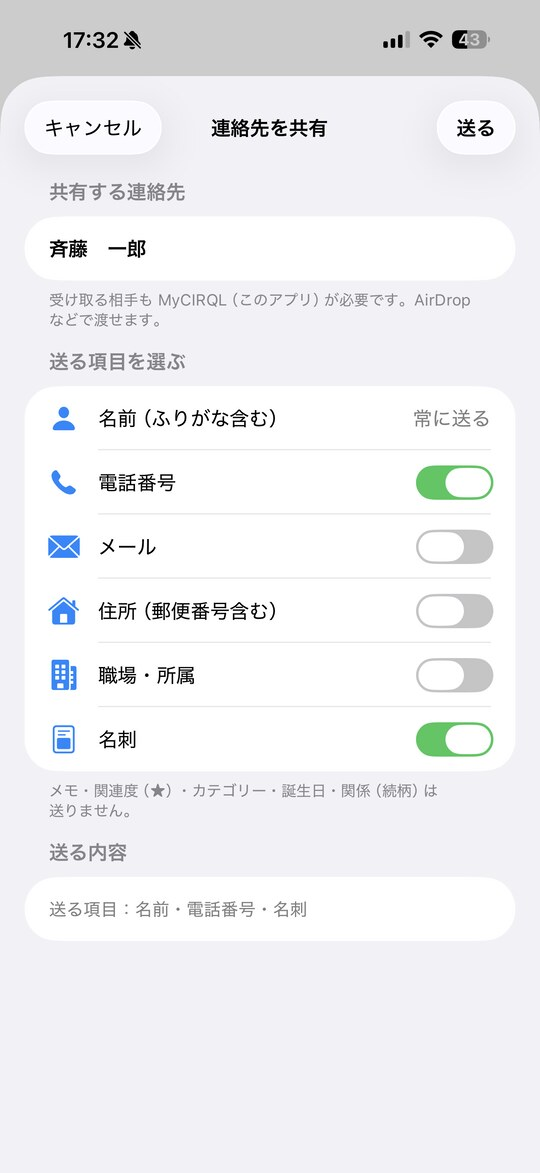
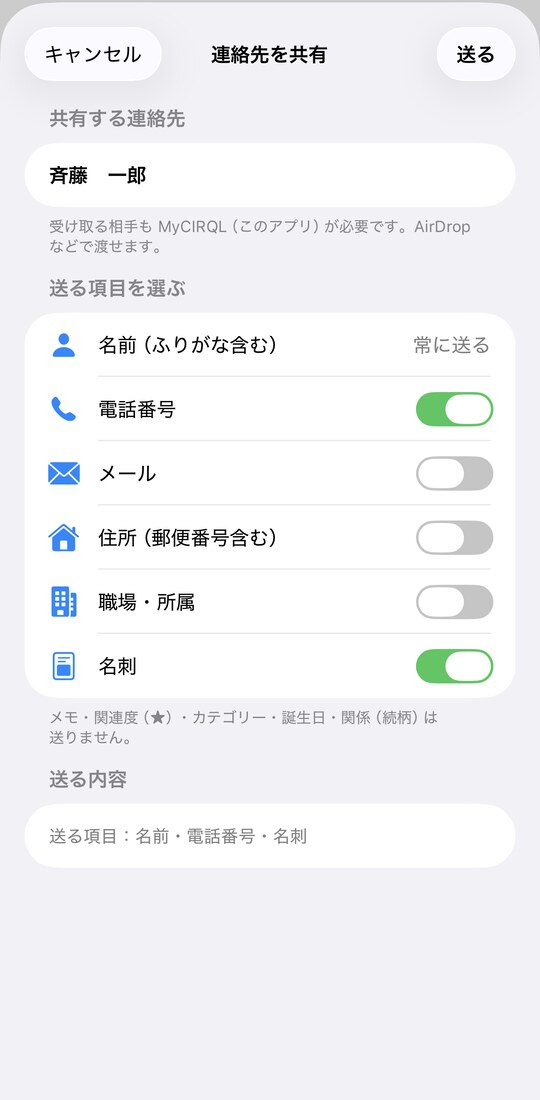
iPhone画面写真からステータスバーを除去し、表示を少し小さく
- 画面上部の時刻・電池・「◀ TestFlight」が写っていたので切り落とした
  （宣伝サイトにテスト版の表示が出ているのは不適切）
- 縦横比 1:2.17 → 1:2.04 になり、細長さがやわらいだ
- 端末枠の表示幅を 300px→262px、ギャラリーを 246px→214px に縮小

diff --git a/index.html b/index.html
@@ -77,9 +77,9 @@
   .hero .note{font-size:17px;color:var(--sub);margin-bottom:28px}
   .hero .cta{display:flex;gap:14px;flex-wrap:wrap;align-items:center}
   .hero .price{font-size:16px;color:var(--sub)}
-  .phone{border:9px solid var(--deep);border-radius:38px;overflow:hidden;box-shadow:var(--shadow);
-         background:var(--deep);max-width:300px;margin:0 auto}
-  .phone img{border-radius:28px}
+  .phone{border:9px solid var(--deep);border-radius:36px;overflow:hidden;box-shadow:var(--shadow);
+         background:var(--deep);max-width:262px;margin:0 auto}
+  .phone img{border-radius:27px}
 
   /* セクション */
   section{padding:56px 0}
@@ -99,8 +99,8 @@
          scroll-snap-type:x mandatory;-webkit-overflow-scrolling:touch}
   .shots::-webkit-scrollbar{height:8px}
   .shots::-webkit-scrollbar-thumb{background:var(--line);border-radius:99px}
-  .shot{flex:0 0 246px;scroll-snap-align:center}
-  .shot .phone{max-width:246px;border-width:8px;border-radius:32px}
+  .shot{flex:0 0 214px;scroll-snap-align:center}
+  .shot .phone{max-width:214px;border-width:8px;border-radius:30px}
   .shot p{text-align:center;font-size:16px;color:var(--sub);margin-top:12px;line-height:1.6}
 
   /* Mac 版 */
@@ -206,7 +206,7 @@
       </div>
     </div>
     <div class="phone">
-      <img src="img/ip_1_hub.jpg" alt="相関図の画面。中心の人物から家族・親戚・友人へ線が伸びている" width="540" height="1173">
+      <img src="img/ip_1_hub.jpg" alt="相関図の画面。中心の人物から家族・親戚・友人へ線が伸びている" width="540" height="1100">
     </div>
   </div>
 </header>
@@ -257,23 +257,23 @@
   <p class="sub">横にスクロールしてご覧ください。</p>
   <div class="shots">
     <div class="shot">
-      <div class="phone"><img src="img/ip_1_hub.jpg" alt="相関図（ハブ）の画面" width="540" height="1173" loading="lazy"></div>
+      <div class="phone"><img src="img/ip_1_hub.jpg" alt="相関図（ハブ）の画面" width="540" height="1100" loading="lazy"></div>
       <p>ハブ<br>その人を中心に関係が広がる</p>
     </div>
     <div class="shot">
-      <div class="phone"><img src="img/ip_2_tree.jpg" alt="家系図の画面" width="540" height="1173" loading="lazy"></div>
+      <div class="phone"><img src="img/ip_2_tree.jpg" alt="家系図の画面" width="540" height="1100" loading="lazy"></div>
       <p>家系図<br>縦に世代が並ぶ日本式</p>
     </div>
     <div class="shot">
-      <div class="phone"><img src="img/ip_3_list.jpg" alt="一覧の画面" width="540" height="1173" loading="lazy"></div>
+      <div class="phone"><img src="img/ip_3_list.jpg" alt="一覧の画面" width="540" height="1100" loading="lazy"></div>
       <p>一覧<br>カテゴリーや関連度で絞り込み</p>
     </div>
     <div class="shot">
-      <div class="phone"><img src="img/ip_4_share.jpg" alt="連絡先を共有する画面" width="540" height="1173" loading="lazy"></div>
+      <div class="phone"><img src="img/ip_4_share.jpg" alt="連絡先を共有する画面" width="540" height="1100" loading="lazy"></div>
       <p>共有<br>送る項目を選んで渡せる</p>
     </div>
     <div class="shot">
-      <div class="phone"><img src="img/ip_5_ocr.jpg" alt="名刺やメモを読み取る画面" width="540" height="1173" loading="lazy"></div>
+      <div class="phone"><img src="img/ip_5_ocr.jpg" alt="名刺やメモを読み取る画面" width="540" height="1100" loading="lazy"></div>
       <p>読み取り<br>名刺やメモから文字を抽出</p>
     </div>
   </div>
